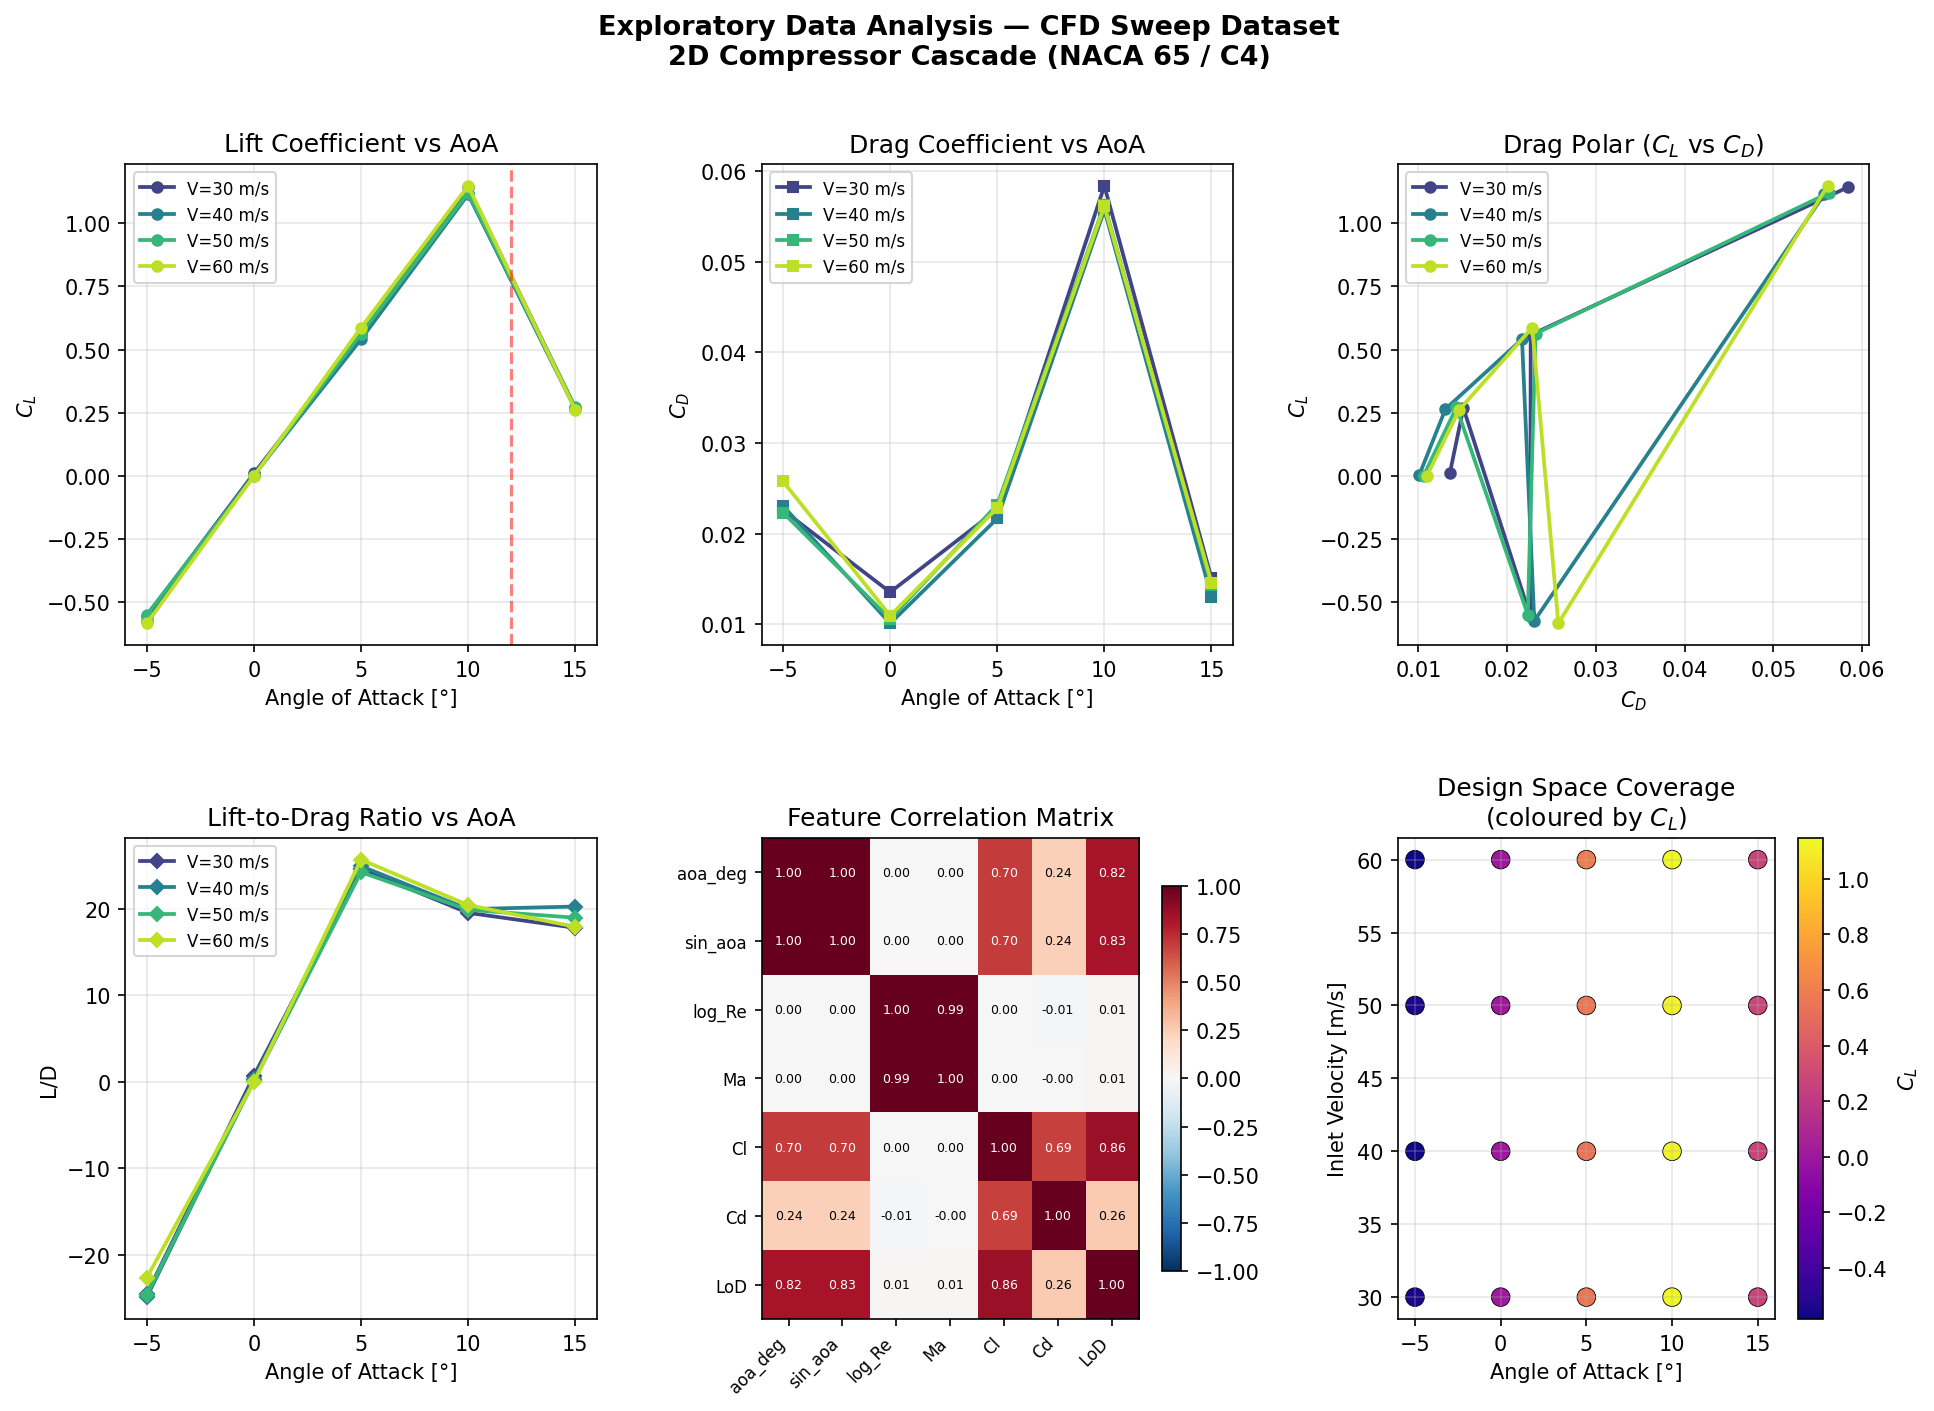
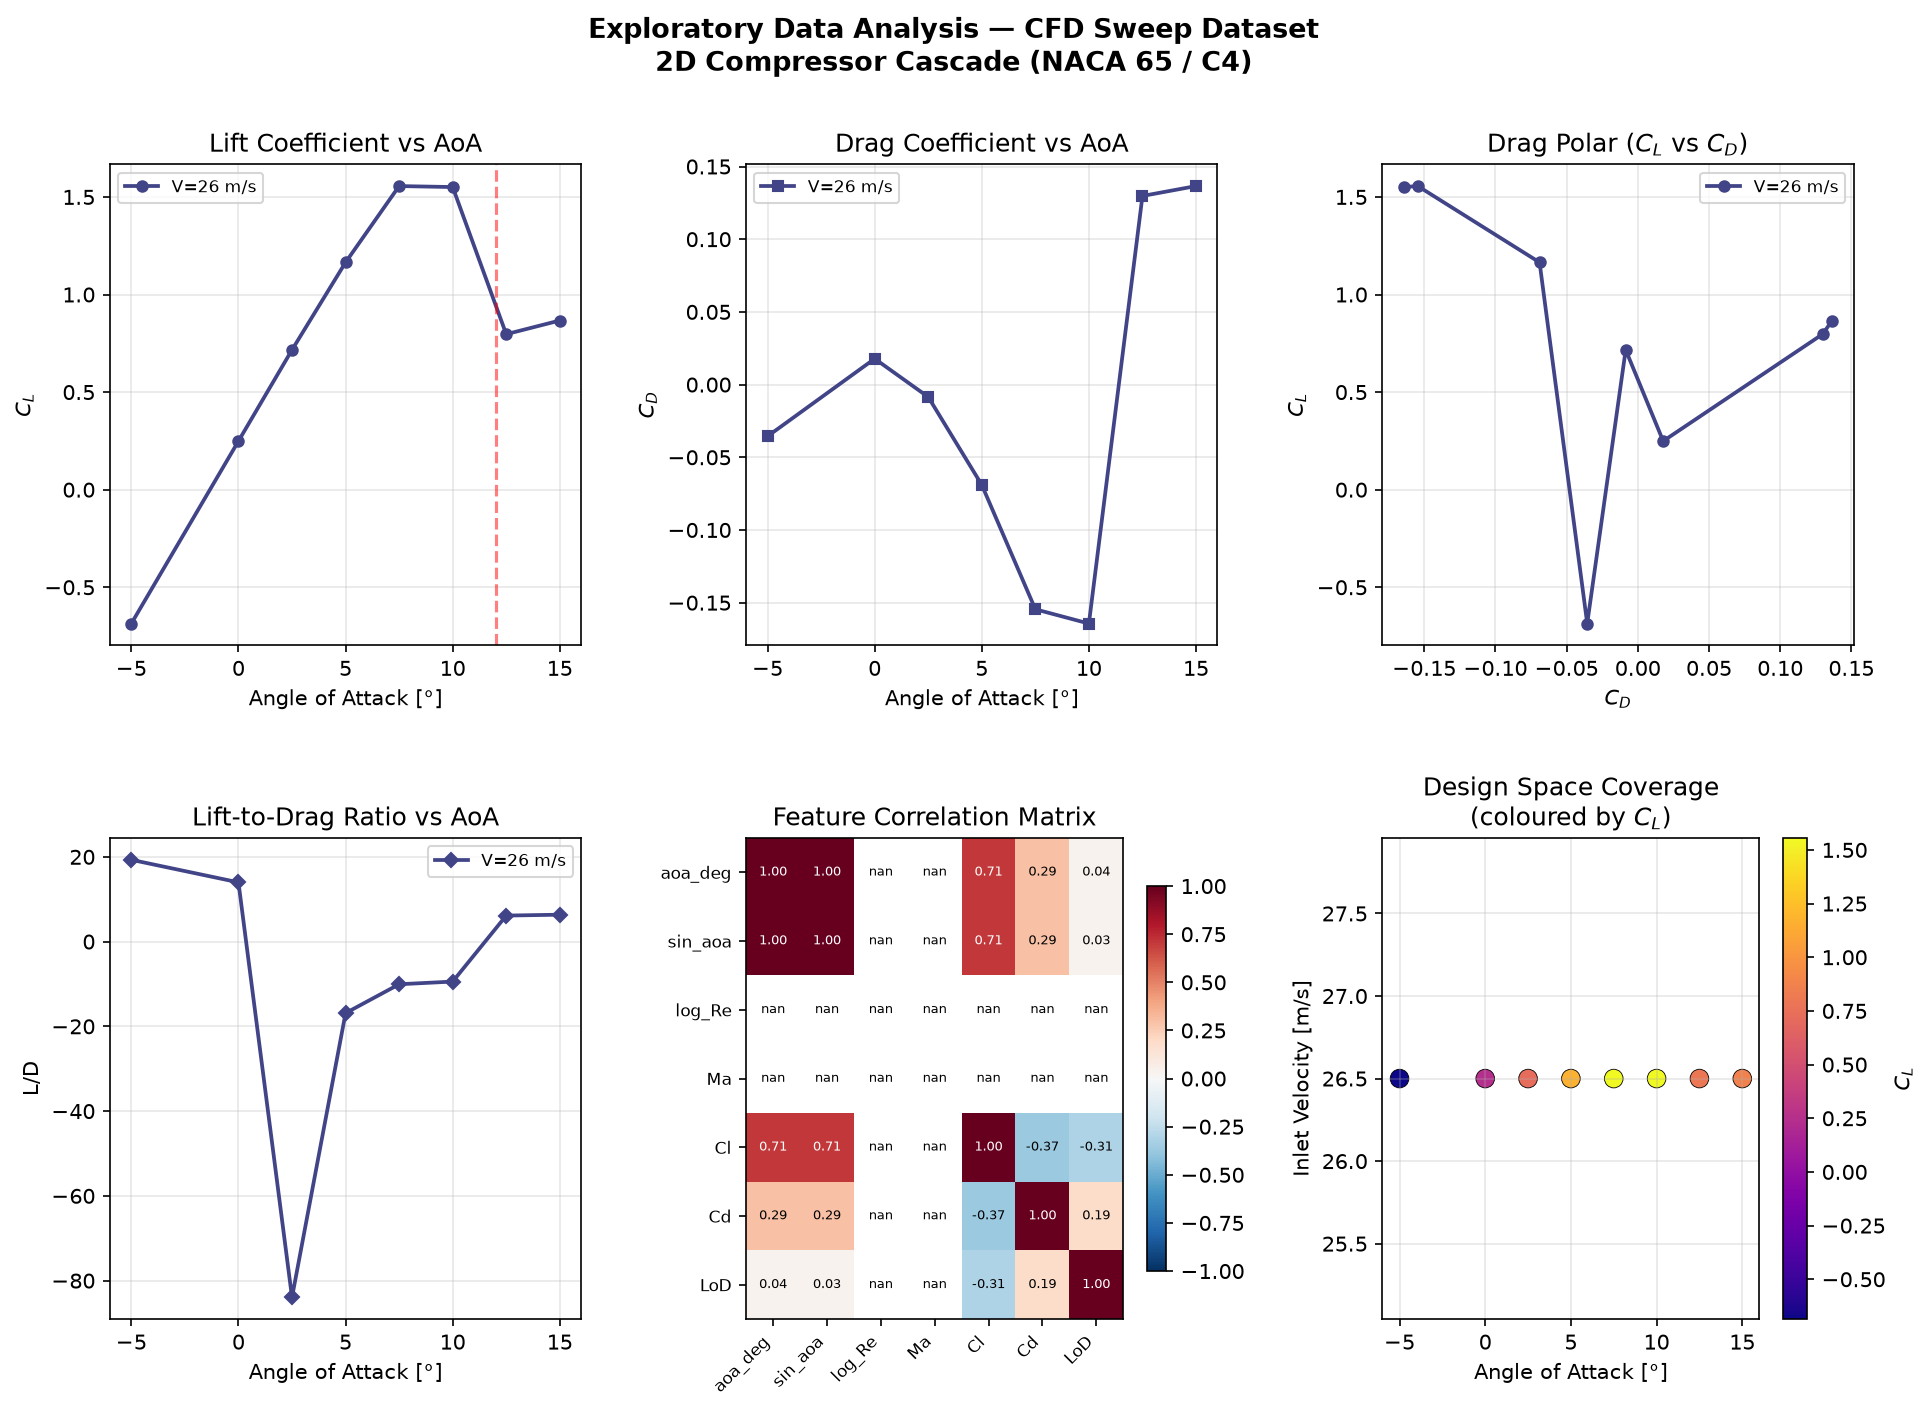
Update README and regenerate ML dataset/plot from 8-point sweep

diff --git a/README.md b/README.md
@@ -17,19 +17,28 @@ cascade, with a machine learning surrogate pipeline being built alongside it.
 
 ## What We Found (Real CFD Results)
 
-Three converged runs at a fixed inlet velocity of 26.5 m/s:
+Eight converged runs at a fixed inlet velocity of 26.5 m/s, sweeping AoA
+from -5° to 15°:
 
-| Angle of Attack | Lift (Cl) | Drag (Cd) | 
+| Angle of Attack | Lift (Cl) | Drag (Cd) |
 | ---------------- | --------- | --------- |
+| -5°               | -0.686    | -0.0355   |
 | 0°                | 0.249     | 0.0178    |
+| 2.5°              | 0.716     | -0.0085   |
 | 5°                | 1.165     | -0.069    |
+| 7.5°              | 1.556     | -0.1545   |
 | 10°               | 1.551     | -0.164    |
+| 12.5°             | 0.797     | 0.1297    |
+| 15°               | 0.867     | 0.1365    |
 
-- Lift increases with angle as expected
-- **Cd is negative at 5° and 10°** — this needs to be checked against the
-  `forceCoeffs` `dragDir`/`liftDir` setup before being trusted; it is not yet
-  resolved as a real aerodynamic effect vs. a reference-frame artifact.
-  Treat the L/D numbers as provisional until this is confirmed.
+- Cl rises cleanly from -5° through ~7.5°, plateaus around 7.5-10°, then
+  **drops sharply at 12.5°** (1.551 → 0.797) with Cd swinging strongly
+  positive — consistent with stall onset in this cascade configuration
+- `dragDir`/`liftDir` in `forceCoeffs` are fixed to a global axial/tangential
+  frame (not rotating with AoA), so negative Cd pre-stall reflects axial
+  force direction relative to that fixed frame, not a computation error —
+  a legitimate convention for cascade force reporting, distinct from a
+  single-airfoil analysis
 
 ---
 
@@ -37,11 +46,12 @@ Three converged runs at a fixed inlet velocity of 26.5 m/s:
 
 ```
 compressor-cascade/
-├── openfoam/       ← Simulation setup files (case must be re-added — see
-│                      Known Issues below)
-├── utils/          ← Python scripts for mesh generation, sweeps, extraction
-├── ml/             ← Data preparation pipeline (Stage 1 — see ML section)
-├── data/           ← Real 3-point CFD sweep + ML-ready feature set
+├── results/aoa_*/  ← Full OpenFOAM case per AoA point (mesh, converged
+│                     fields, forceCoeffs output) — this is the real evidence
+├── results/airfoil_test/ ← Validated baseline case (airFoil2D tutorial)
+├── utils/          ← Mesh generation, sweep extension, coefficient extraction
+├── ml/             ← Data preparation + model training pipeline
+├── data/           ← Real 8-point CFD sweep + ML-ready feature set
 ├── results/plots/  ← Generated figures
 └── docs/           ← Step-by-step ParaView guide
 ```
@@ -52,28 +62,34 @@ compressor-cascade/
 
 - **OpenFOAM 2412** — CFD simulation
 - **ParaView** — Visualisation and data extraction
-- **Python 3.11** — Data processing and ML
-- **scikit-learn** — Machine learning models (Stage 1: not yet trained — see below)
+- **Python 3.14 (WSL) / 3.11 (Windows)** — Data processing and ML
+- **scikit-learn** — Machine learning models (pipeline verified, not yet
+  validated — see ML section)
 - **WSL (Ubuntu)** — Running OpenFOAM on Windows
 
 ---
 
-## ML Surrogate — Current Stage: Data Preparation Only
+## ML Surrogate — Current Stage: Pipeline Verified, Not Yet Validated
 
-The pipeline structures CFD sweep output into a labelled dataset and engineers
-physics-informed input features (sin/cos of AoA, log-Reynolds, Mach², dynamic
-pressure). **No model has been trained yet.** With only 3 real data points,
-training and validating a surrogate model would not produce a meaningful or
-honest R² figure — that step is deferred until the sweep covers more
-AoA/velocity combinations (aiming for 15-20+ real points).
+The pipeline runs end-to-end on real data: 8 CFD points, feature engineering
+(sin/cos of AoA, log-Reynolds, Mach², dynamic pressure), model training
+(Random Forest for Cl, Gradient Boosting for Cd), and leave-one-out
+cross-validation.
+
+**Honest result:** with only 8 points, LOO CV R² is mathematically
+undefined (each fold leaves too little data to compute a meaningful score),
+and training-set R² is artificially high (Cd: R²=1.00) because the model
+is close to memorizing 8 points across 6 input features rather than
+generalizing. This is a real overfitting signature, not a working
+surrogate yet.
+
+**What this means:** the code is correct and the pipeline works, but the
+model itself isn't trustworthy until the sweep has enough points (roughly
+15-20+) for cross-validation to return a defined, meaningful score.
 
 ```
-# Prepare ML dataset from real CFD sweep
 python ml/data_preparation.py --data data/sweep_results.csv
-
-# (ml/data_preparation.py --demo also exists, for testing the pipeline code
-#  itself with synthetic data — its output must never be mistaken for a
-#  result and should not be committed as data/ml_ready_dataset.csv)
+python ml/train_model.py
 ```
 
 ---
@@ -108,23 +124,31 @@ This section is kept intentionally, rather than cleaned up, so the repo's
 history is transparent:
 
 1. **OpenFOAM case files were accidentally deleted** in an earlier commit.
-   The specific historical commit that had them also had a broken
-   `forceCoeffs` setup (all-zero output across the whole run, likely a
-   patch-name mismatch) — so it is being re-added from a corrected local
-   case rather than blindly restored from git history.
+   The historical commit that had them also had a broken `forceCoeffs`
+   setup (all-zero output across the whole run, a patch-name mismatch) —
+   so real case folders were re-added per AoA point (`results/aoa_*`)
+   from verified working runs instead of restoring the broken history.
 2. **The dataset previously committed as `data/ml_ready_dataset.csv`** was
    synthetic (`--demo` output), not derived from real CFD. It has been
-   replaced with the real 3-point dataset.
-3. **The mesh sensitivity / GCI claim previously in this README was
+   replaced with the real dataset, now built from 8 sweep points.
+3. **An early sweep-extension script had a column-parsing bug** — it read
+   `Cd(f)`/`Cd(r)` (front/rear drag split) instead of the actual `Cd`/`Cl`
+   columns, producing near-zero, non-physical values for 5 of the 8 points.
+   No re-simulation was needed; the fix was re-reading the correct columns
+   from the same converged output.
+4. **The mesh sensitivity / GCI claim previously in this README was
    synthetic.** It has been rescoped to "methodology only" above.
-4. **Cd sign at higher AoA is unresolved** — see the results table above.
+5. **Cd sign at higher AoA (pre-stall) is explained above** — fixed
+   axial/tangential force convention, not an error.
 
 ---
 
 ## Key Results (Honest Version)
 
-- 3 real OpenFOAM runs (0°, 5°, 10° AoA) converged and were post-processed
-- Feature-engineered dataset built from real CFD output, not synthetic data
-- ML surrogate: Stage 1 (data prep) complete; model training deferred
-  pending a larger real sweep
+- 8 real OpenFOAM runs (-5° to 15° AoA) converged and were post-processed
+- Clear lift curve with a visible stall break at 12.5° — genuine
+  aerodynamic behaviour, not fitted or assumed
+- Feature-engineered dataset built entirely from real CFD output
+- ML surrogate: pipeline runs end-to-end and was trained, but honestly
+  reported as not yet statistically validated (LOO CV undefined at n=8)
 - Mesh sensitivity: methodology implemented, real multi-level study pending
